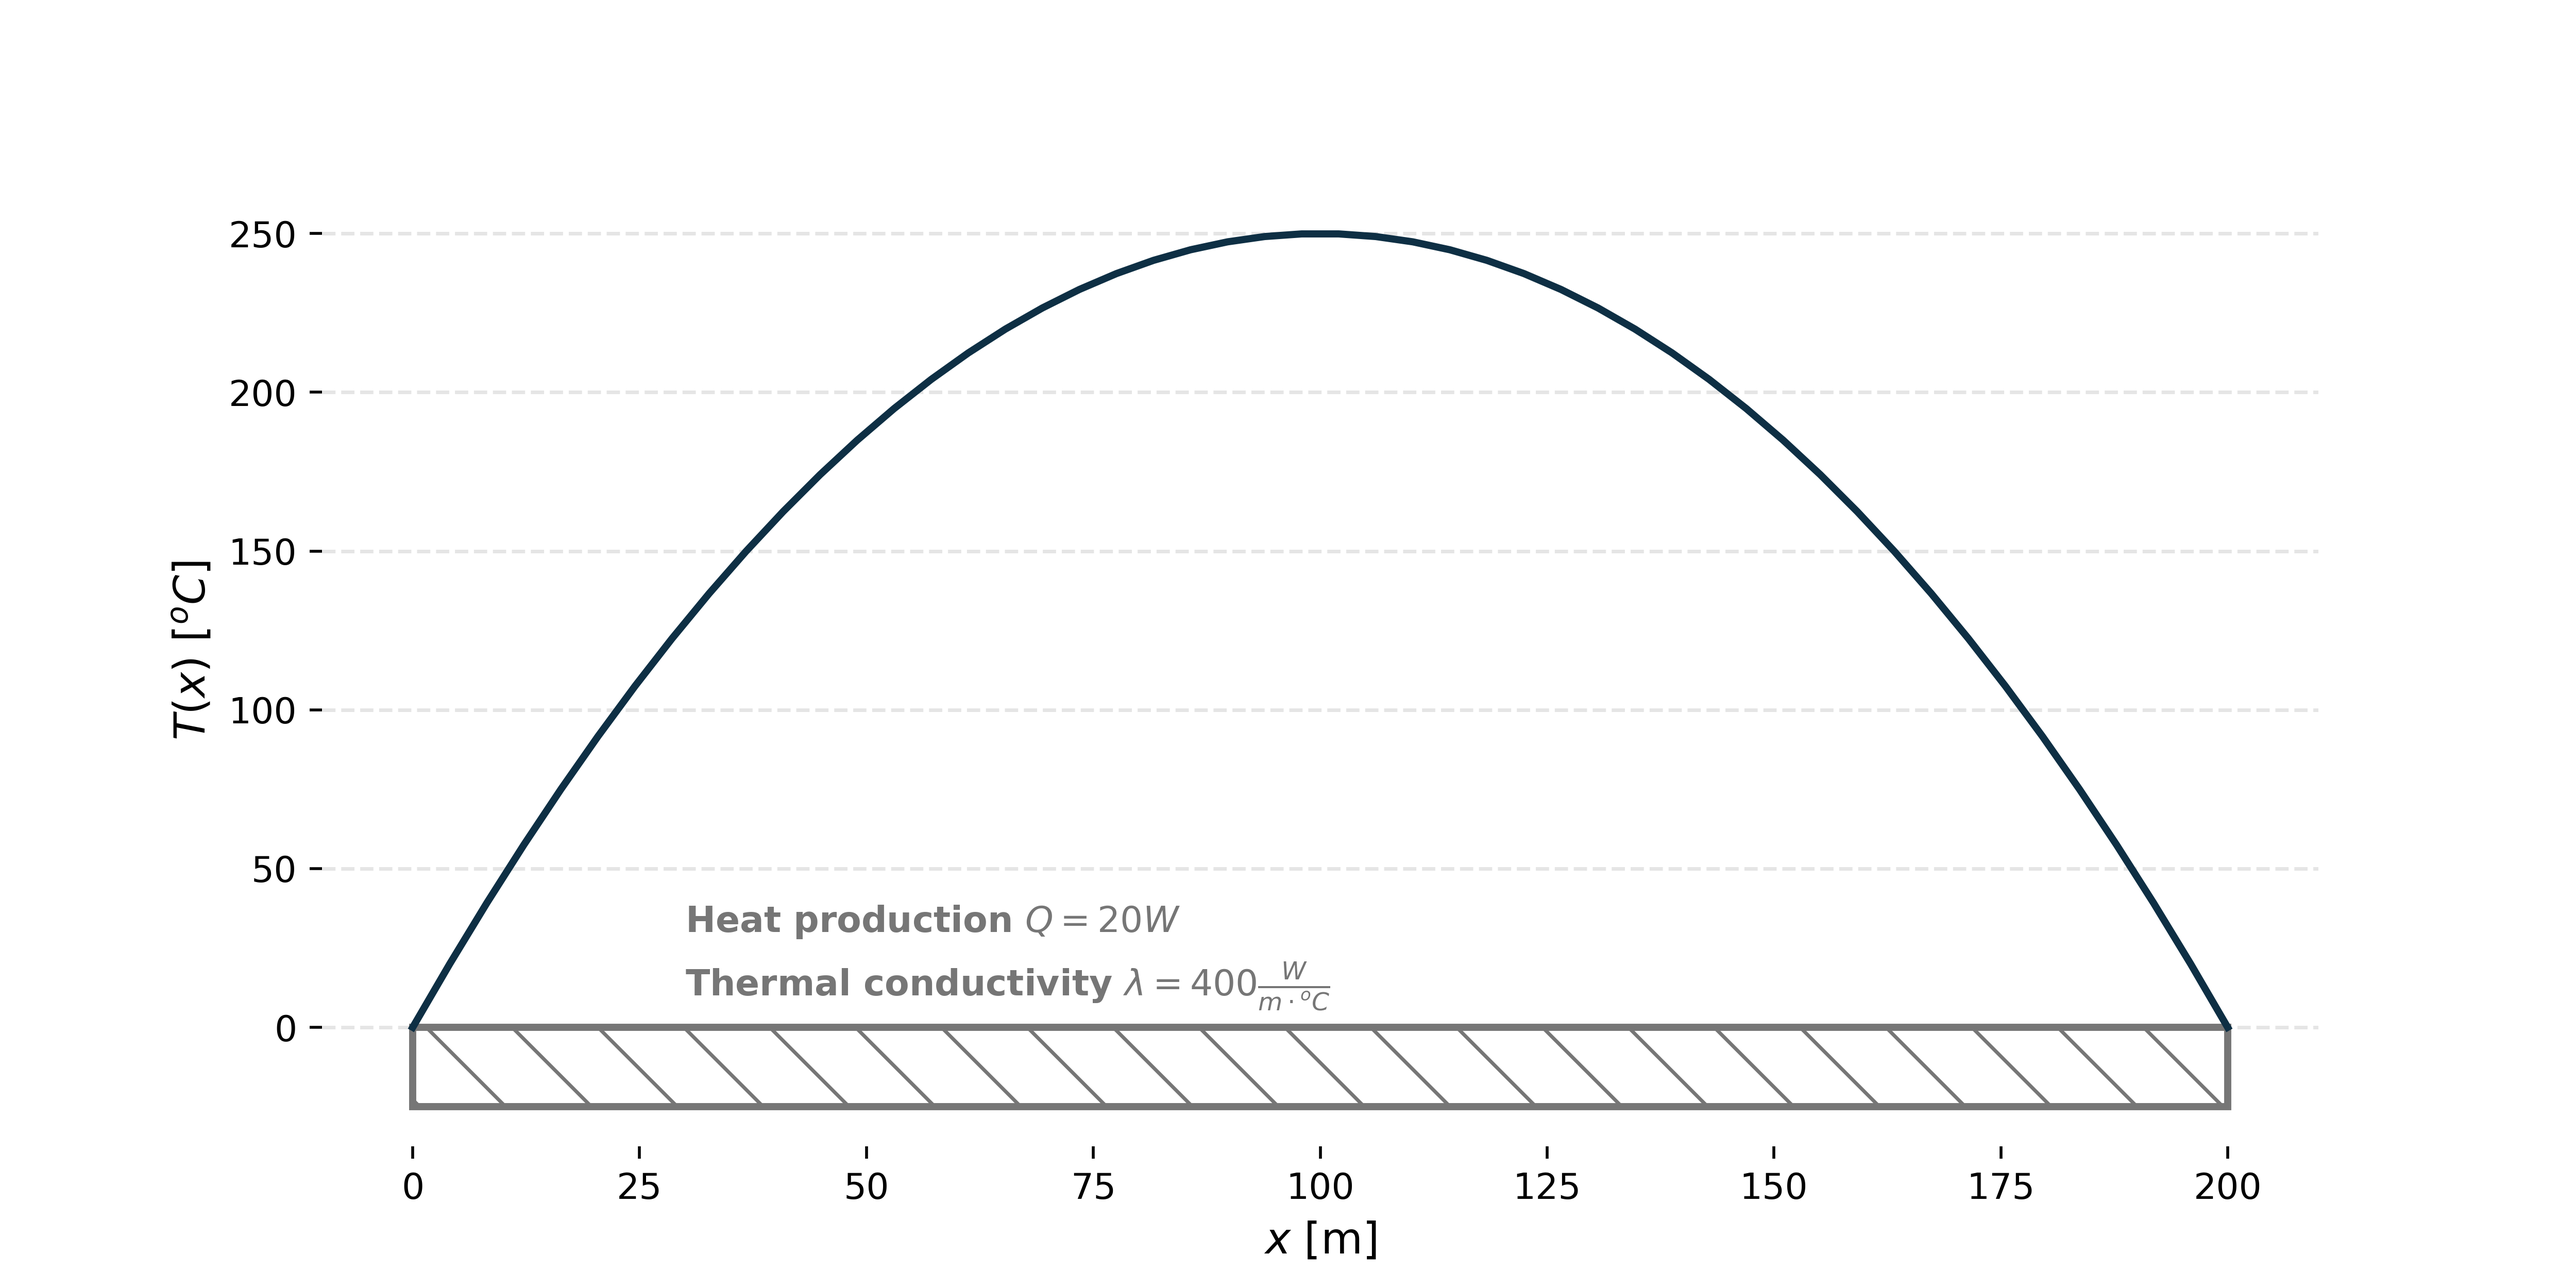
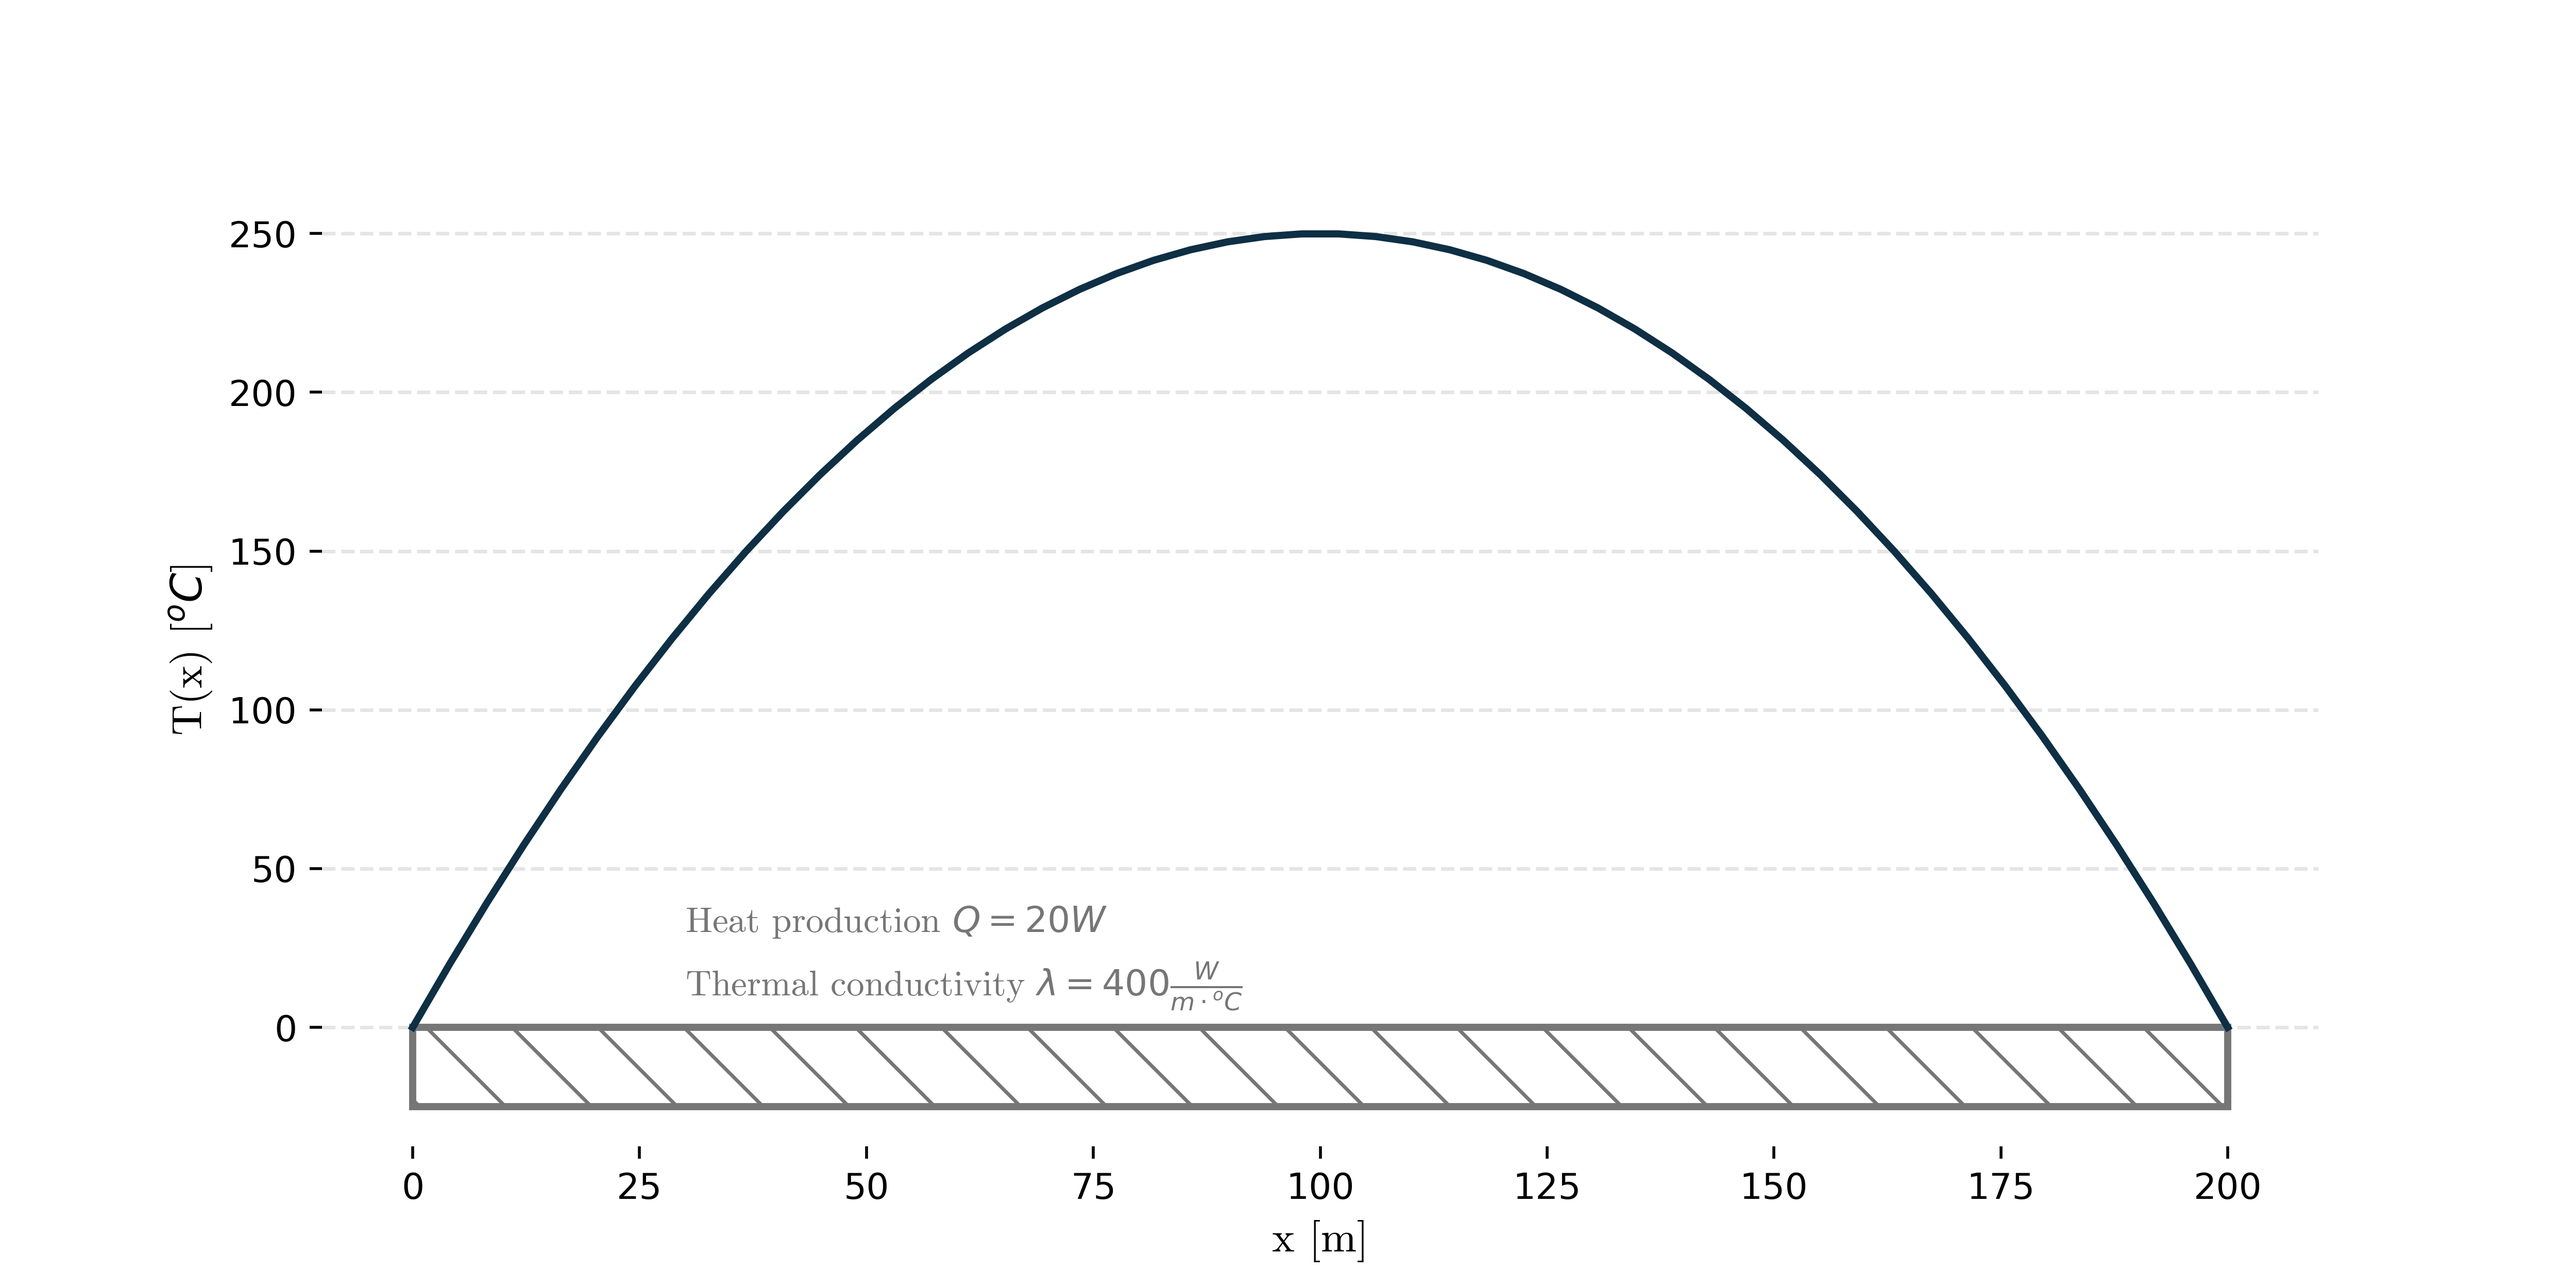
Trans phen updates

Changed region(s): [[0.2808, 0.6864, 0.5304, 0.78], [0.0624, 0.4368, 0.0936, 0.5616], [0.4992, 0.936, 0.5304, 0.9672]]

diff --git a/trans-phen/Code/conduction-rod.py b/trans-phen/Code/conduction-rod.py
@@ -4,6 +4,13 @@ from matplotlib import pyplot as plt
 import numpy
 import matplotlib.patches as patches
 
+# Styles:
+nfont = {"name": "cmr10", "style": "normal", "weight": "normal"}
+ifont = {"name": "cmr10", "style": "normal", "weight": "normal"}
+demand_col = '#282850'
+renewables_col = '#f44242'
+background_col = "#f9f7f2"
+
 # Data:
 T0 = 0 # deg C
 L = 200 # m
@@ -24,8 +31,8 @@ T = - Q/(2*lam) * (x**2 - L * x) + T0
 figure = plt.figure(figsize=(10, 5))
 ax1 = figure.add_subplot(1,1,1)
 # plt.title('Temperature distribution in $^oC$ in a rod with internal heat production of ' + str(Q) + ' Watt')
-plt.xlabel(r'$x$ [m]', fontsize=12)
-plt.ylabel(r'$T(x)$ [$^o C$]', fontsize=12)
+plt.xlabel(r'x [m]', fontsize=12, **nfont)
+plt.ylabel(r'T(x) [$^o C$]', fontsize=12, **nfont)
 plt.xlim(-0.05*L, 1.05*L)
 plt.ylim(-0.15*max(T), 1.1*max(T))
 ax1.spines["top"].set_visible(False)
@@ -58,8 +65,8 @@ ax1.add_patch(
 
 # To plot the line:
 plt.plot(x, T, color=lineColour, linestyle='-', linewidth=2.0, zorder=1)
-ax1.text(30,30, r'Heat production $Q = 20 W$', fontsize=10, color=barColour, fontweight='bold')
-ax1.text(30,10, r'Thermal conductivity $\lambda = 400 \frac{W}{m \cdot ^oC}$', fontsize=10, color=barColour, fontweight='bold')
+ax1.text(30,30, r'Heat production $Q = 20 W$', fontsize=10, color=barColour, **ifont)
+ax1.text(30,10, r'Thermal conductivity $\lambda = 400 \frac{W}{m \cdot ^oC}$', fontsize=10, color=barColour, **ifont)
 
 
 # Plot helping lines for the temperature:

diff --git a/trans-phen/comp-examp-trans-phen.tex b/trans-phen/comp-examp-trans-phen.tex
@@ -266,7 +266,7 @@ As a computational example we will draw the graph of the temperature distributio
 
 \begin{figure}[H]
 \centering\includegraphics[width=16cm]{Code/evaporating-sphere.png}
-\caption{Stefan problem for water evaporating from the 0.1m tube.}
+\caption{Evaporating sphere diameter history.}
 \label{fig:stefan-problem}
 \end{figure}
 
